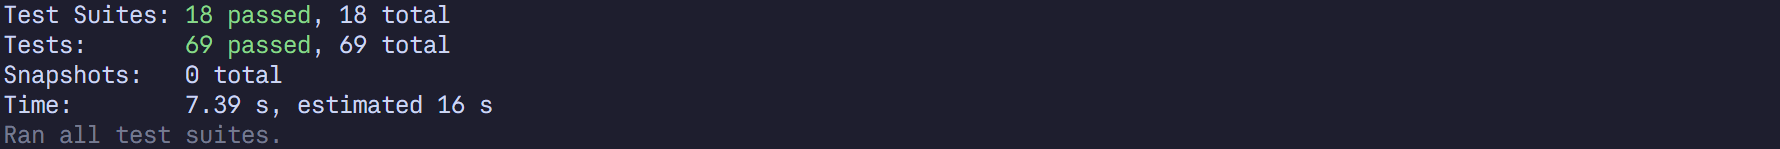
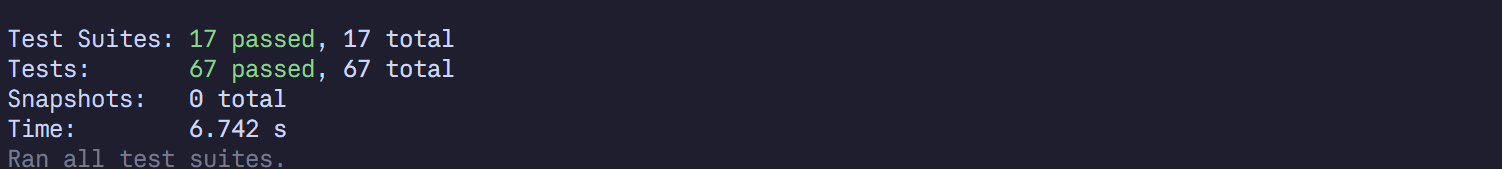
altre modifiche

Changed region(s): [[0.0, 0.0268, 0.3063, 0.9933], [0.245, 0.0268, 0.2756, 0.0537]]

diff --git a/tests/tokenCharge.test.ts b/tests/tokenCharge.test.ts
@@ -28,14 +28,4 @@ describe('TokenService.charge', () => {
     // Senza la transazione la lettura userebbe una seconda connessione del pool
     expect(findById).toHaveBeenCalledWith(4, tx);
   });
-
-  it('il messaggio indica costo e saldo quando il saldo è positivo ma insufficiente', async () => {
-    deductTokens.mockResolvedValue(null);
-    findById.mockResolvedValue({ tokens: '0.42' } as User);
-    const err = (await TokenService.charge(4, 2.58, tx).catch((e: unknown) => e)) as AppError;
-    expect(err.status).toBe(401);
-    expect(err.code).toBe('INSUFFICIENT_TOKENS');
-    expect(err.message).toContain('2.58');
-    expect(err.message).toContain('0.42');
-  });
 });

diff --git a/tests/simulation.test.ts b/tests/simulation.test.ts
@@ -56,11 +56,8 @@ describe('simulationSchema', () => {
     expect(simulationSchema.safeParse({ ...valid, initialWeight: 1, finalWeight: 2, step: 0.05 }).success).toBe(true);
   });
 
-  it.each([
-    ['iniziale > finale', { initialWeight: 5, finalWeight: 2 }],
-    ['passo zero', { step: 0 }],
-  ])('rifiuta: %s', (_label, override) => {
-    expect(simulationSchema.safeParse({ ...valid, ...override }).success).toBe(false);
+  it('rifiuta: iniziale > finale', () => {
+    expect(simulationSchema.safeParse({ ...valid, initialWeight: 5, finalWeight: 2 }).success).toBe(false);
   });
 });
 

diff --git a/tests/queryRoutes.test.ts b/tests/queryRoutes.test.ts
@@ -19,11 +19,6 @@ const app = createApp();
 const auth = `Bearer ${JwtService.sign({ userId: 2, role: 'user' })}`;
 
 describe('querySchemas', () => {
-  it('accetta filtri validi e li converte', () => {
-    const parsed = requestsQuerySchema.parse({ modelId: '3', date: '2026-10-07', status: 'pending' });
-    expect(parsed).toEqual({ modelId: 3, date: '2026-10-07', status: 'pending' });
-  });
-
   it.each([
     ['status fuori enum', { status: 'boh' }],
     ['data inesistente', { date: '2026-02-30' }],

diff --git a/tests/modelRoutes.test.ts b/tests/modelRoutes.test.ts
@@ -81,4 +81,13 @@ describe('POST /models/:id/execute', () => {
     await exec('1', { start: 'A', goal: 'Z' }).expect(400);
     expect(users.deductTokens).not.toHaveBeenCalled();
   });
+
+  it('404 per modello inesistente', async () => {
+    models.findById.mockResolvedValue(null);
+    await exec('99', { start: 'A', goal: 'D' }).expect(404);
+  });
+
+  it('400 per id non numerico', async () => {
+    await exec('abc', { start: 'A', goal: 'D' }).expect(400);
+  });
 });

diff --git a/tests/executeRollback.test.ts b/tests/executeRollback.test.ts
@@ -53,9 +53,4 @@ describe('POST /models/:id/execute: addebito e calcolo nella stessa transazione'
     expect(users.deductTokens).toHaveBeenCalledWith(4, 0.41, expect.anything());
     expect(outcome).toBe('rollback');
   });
-
-  it('con calcolo riuscito la transazione va a buon fine', async () => {
-    await request(app).post('/models/1/execute').set('Authorization', auth).send({ start: 'A', goal: 'B' }).expect(200);
-    expect(outcome).toBe('commit');
-  });
 });

diff --git a/tests/authenticate.test.ts b/tests/authenticate.test.ts
@@ -49,4 +49,9 @@ describe('authenticate', () => {
     const token = jwt.sign({ role: 'admin' }, publicKey, { algorithm: 'HS256', subject: '1' });
     expect((run(`Bearer ${token}`).err as AppError).status).toBe(401);
   });
+
+  it('risponde 401 se lo schema non è Bearer', () => {
+    const token = JwtService.sign({ userId: 1, role: 'user' });
+    expect((run(`Basic ${token}`).err as AppError).status).toBe(401);
+  });
 });

diff --git a/tests/roleAndTokens.test.ts b/tests/roleAndTokens.test.ts
@@ -44,4 +44,9 @@ describe('checkTokens', () => {
     expect((err as AppError).status).toBe(401);
     expect((err as AppError).code).toBe('INSUFFICIENT_TOKENS');
   });
+
+  it('risponde 401 se l\'utente non esiste', async () => {
+    findById.mockResolvedValue(null);
+    expect(((await run(checkTokens, req)) as AppError).status).toBe(401);
+  });
 });

diff --git a/README.md b/README.md
@@ -436,15 +436,15 @@ Per fermare tutto: `docker compose down` (aggiungi `-v` per cancellare anche i d
 
 ![Risultati test](docs/test_suites.png)
 
-Sono presenti **69 test Jest** in 18 suite (`tests/`). Jest sostituisce i DAO e la transazione con mock, quindi i test non richiedono il database; le rotte si provano sull'app Express con `supertest` (JWT reali firmati con una chiave di test). Le query SQL reali si verificano con Postman sul database seminato (sezione "Test con Postman").
+Sono presenti **67 test Jest** in 17 suite (`tests/`). Jest sostituisce i DAO e la transazione con mock, quindi i test non richiedono il database; le rotte si provano sull'app Express con `supertest` (JWT reali firmati con una chiave di test). Le query SQL reali si verificano con Postman sul database seminato (sezione "Test con Postman").
 
 | Suite | Cosa verifica |
 |---|---|
-| `setup`, `validateConfig` | `GET /health`, Singleton del database, configurazione valida e chiave JWT vuota rifiutata all'avvio |
-| `authenticate`, `roleAndTokens`, `tokenCharge` | JWT valido, mancante, firmato con un'altra chiave, scaduto, HS256; ruoli; token finiti: 401; addebito dei token, con la lettura del saldo nella stessa transazione |
+| `setup` | `GET /health` e Singleton del database |
+| `authenticate`, `roleAndTokens`, `tokenCharge` | JWT valido, mancante, firmato con un'altra chiave, scaduto, HS256, schema non Bearer; ruoli; token finiti e utente inesistente: 401; addebito dei token, con la lettura del saldo nella stessa transazione |
 | `adminRoutes` | ricarica: 401, 403, 400, 404, 200 |
 | `modelValidation` | calcolo del costo, validazione del grafo e del nome |
-| `modelRoutes`, `executeRollback` | creazione con e senza credito, esecuzione, nodo sconosciuto, logica del rollback dell'addebito |
+| `modelRoutes`, `executeRollback` | creazione con e senza credito, esecuzione, nodo sconosciuto, id non numerico, modello inesistente, logica del rollback dell'addebito |
 | `alphaAndBlend`, `alphaEnv` | alpha valido o errato, media esponenziale, alpha letto dall'ambiente all'avvio |
 | `weightRequestRoutes`, `weightRequestAtomicity` | creazione, validazione del peso, approvazione, rifiuto, 403 e 409, approvazione doppia, logica del rollback |
 | `queryRoutes`, `queryFilters` | filtri delle richieste in AND, data non valida, visibilità delle richieste, elenco delle versioni |
